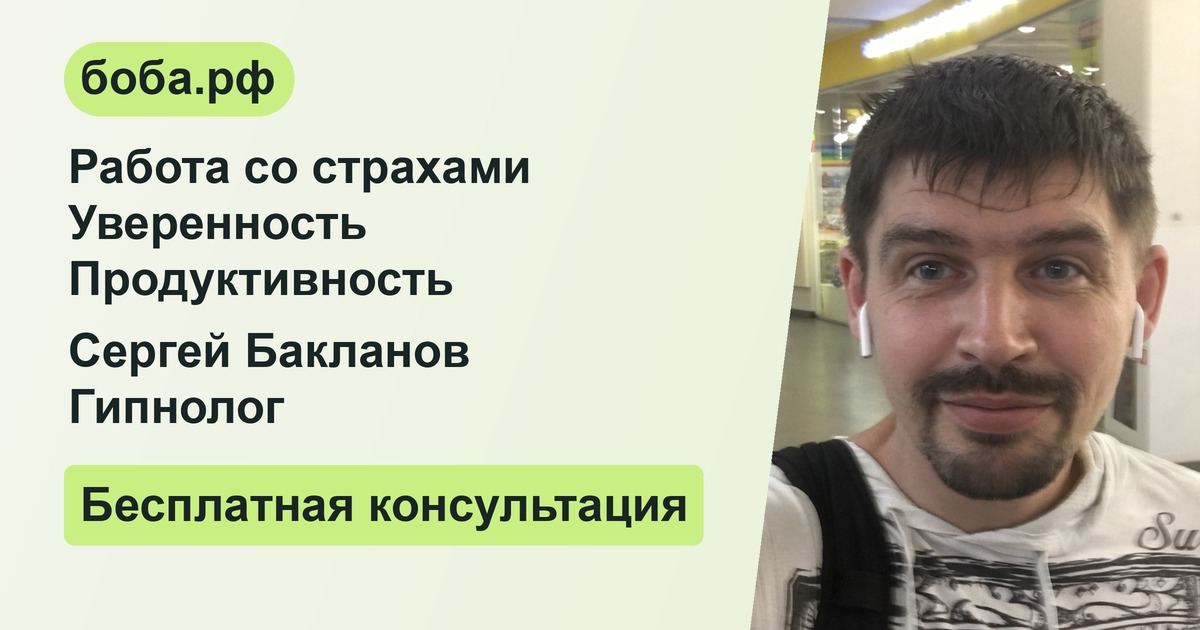
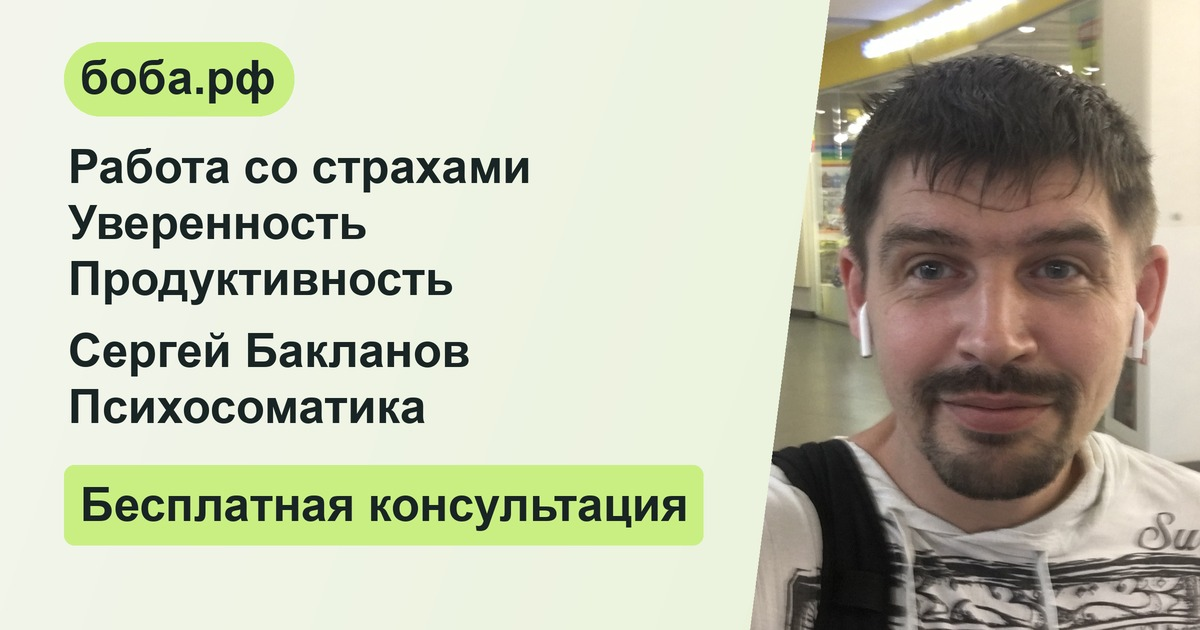
++ боба

Changed region(s): [[0.0617, 0.6032, 0.37, 0.6937]]

diff --git a/public/boba/site.css b/public/boba/site.css
@@ -99,3 +99,8 @@
     .service-card p{font-size:15px;line-height:1.6}
     .card-link{gap:8px}
 }
+
+/* Slow, subtle beige-to-yellow waves behind the page content */
+body{background-color:#f7f5ed;background-image:radial-gradient(ellipse 68% 54% at 12% 18%,rgba(245,218,150,.26),transparent 74%),radial-gradient(ellipse 64% 58% at 88% 82%,rgba(240,211,133,.23),transparent 72%),linear-gradient(118deg,#f5f4ee 0%,#fbf5e5 34%,#f7efcf 65%,#f8f5eb 100%);background-repeat:no-repeat;background-size:170% 170%,160% 160%,220% 220%;background-attachment:fixed;animation:boba-background-waves 38s ease-in-out infinite alternate}
+@keyframes boba-background-waves{0%{background-position:0% 0%,100% 100%,0% 50%}100%{background-position:100% 100%,0% 0%,100% 50%}}
+@media(prefers-reduced-motion:reduce){body{animation:none;background-position:50% 50%,50% 50%,50% 50%}}

diff --git a/resources/views/boba/index.blade.php b/resources/views/boba/index.blade.php
@@ -4,25 +4,25 @@
     <meta charset="utf-8">
     <meta name="viewport" content="width=device-width, initial-scale=1">
     <meta name="csrf-token" content="{{ csrf_token() }}">
-    <title>боба.рф — гипнолог Сергей Бакланов, Тюмень и онлайн</title>
-    <meta name="description" content="Страх общения, выступлений или конкретных ситуаций, неуверенность и привычки, мешающие продуктивности? Обсудите с гипнологом Сергеем Баклановым, подходит ли вам такой формат. Первая консультация бесплатная, без обязательств; стоимость дальнейшей работы обсуждается заранее.">
+    <title>боба.рф — психосоматика Сергей Бакланов, Тюмень и онлайн</title>
+    <meta name="description" content="Страх общения, выступлений или конкретных ситуаций, неуверенность и привычки, мешающие продуктивности? Обсудите с психосоматиком Сергеем Баклановым, подходит ли вам такой формат. Первая консультация бесплатная, без обязательств; стоимость дальнейшей работы обсуждается заранее.">
     <link rel="canonical" href="https://xn--80aba5c.xn--p1ai/">
     <meta property="og:type" content="website">
     <meta property="og:locale" content="ru_RU">
     <meta property="og:site_name" content="боба.рф">
-    <meta property="og:title" content="боба.рф — гипнолог Сергей Бакланов">
+    <meta property="og:title" content="боба.рф — психосоматика Сергей Бакланов">
     <meta property="og:description" content="Работа со страхами и привычными реакциями, развитие уверенности и продуктивности. Бесплатно обсудим ваш запрос; формат и стоимость дальнейшей работы — заранее, без обязательств.">
     <meta property="og:url" content="https://xn--80aba5c.xn--p1ai/">
-    <meta property="og:image" content="https://xn--80aba5c.xn--p1ai/boba/og-preview.jpg?v=6">
-    <meta property="og:image:secure_url" content="https://xn--80aba5c.xn--p1ai/boba/og-preview.jpg?v=6">
+    <meta property="og:image" content="https://xn--80aba5c.xn--p1ai/boba/og-preview.jpg?v=7">
+    <meta property="og:image:secure_url" content="https://xn--80aba5c.xn--p1ai/boba/og-preview.jpg?v=7">
     <meta property="og:image:type" content="image/jpeg">
     <meta property="og:image:width" content="1200">
     <meta property="og:image:height" content="630">
-    <meta property="og:image:alt" content="Гипнолог Сергей Бакланов и приглашение на бесплатную консультацию">
+    <meta property="og:image:alt" content="Сергей Бакланов, психосоматика и приглашение на бесплатную консультацию">
     <meta name="twitter:card" content="summary_large_image">
-    <meta name="twitter:title" content="боба.рф — гипнолог Сергей Бакланов">
+    <meta name="twitter:title" content="боба.рф — психосоматика Сергей Бакланов">
     <meta name="twitter:description" content="Работа со страхами и привычными реакциями, развитие уверенности и продуктивности. Бесплатно обсудим ваш запрос; формат и стоимость дальнейшей работы — заранее, без обязательств.">
-    <meta name="twitter:image" content="https://xn--80aba5c.xn--p1ai/boba/og-preview.jpg?v=6">
+    <meta name="twitter:image" content="https://xn--80aba5c.xn--p1ai/boba/og-preview.jpg?v=7">
     <meta name="theme-color" content="#111a1a">
     <link rel="stylesheet" href="/boba/site.css">
 {{--    <link rel="stylesheet" href="/css/output.css?v=1" />--}}
@@ -30,8 +30,8 @@
 </head>
 <body>
 <header class="topbar wrap">
-    <a class="brand" href="#top" aria-label="боба.рф — гипнолог Сергей Бакланов"><span class="brand-oval">боба.рф</span><span
-            class="brand-copy"><strong>Сергей Бакланов</strong><small>гипнолог</small></span></a>
+    <a class="brand" href="#top" aria-label="боба.рф — психосоматика Сергей Бакланов"><span class="brand-oval">боба.рф</span><span
+            <span class="brand-copy"><strong>Сергей Бакланов</strong><small>психосоматика</small></span></a>
     <nav aria-label="Основная навигация"><a href="#services">Направления</a><a href="#approach">Как проходит
             работа</a></nav>
     <button class="button button-small" type="button" data-consult="Бесплатная консультация">Записаться <span>↗</span>
@@ -50,51 +50,73 @@
              data-promo-carousel>
         <div class="promo-viewport">
             <article class="promo-slide is-active" data-promo-slide aria-hidden="false">
-                <div class="promo-copy"><p class="promo-eyebrow">НАПРАВЛЕНИЕ · 01 / 07</p>
-                    <h2>Страхи и фобии</h2>
-                    <div class="promo-details"><p>Общение, выступления и ситуации, которые вызывают сильное напряжение.</p>
+                <div class="promo-copy">
+
+                    <div class="promo-details">
+                        <h2>Страхи и&nbsp;фобии</h2>
+                        <br/>
+                        <p>Общение, выступления и&nbsp;ситуации, которые вызывают сильное напряжение.</p>
+                        <br/>
                         <button class="button promo-cta" type="button" data-consult="Страхи и фобии">Записаться <span>↗</span></button></div>
                 </div><div class="promo-photo" style="--promo-photo:url('/boba/services/fears.webp')"><img class="promo-image" src="/boba/services/fears.webp" alt="" fetchpriority="high"></div>
             </article>
             <article class="promo-slide" data-promo-slide aria-hidden="true" inert>
-                <div class="promo-copy"><p class="promo-eyebrow">НАПРАВЛЕНИЕ · 02 / 07</p>
-                    <h2>Тревога и стресс</h2>
-                    <div class="promo-details"><p>Беспокойство, напряжение и трудности с расслаблением.</p>
+                <div class="promo-copy">
+
+                    <div class="promo-details">
+                        <h2>Тревога и&nbsp;стресс</h2>
+                        <br/>
+                        <p>Беспокойство, напряжение и&nbsp;трудности с&nbsp;расслаблением.</p>
+                        <br/>
                         <button class="button promo-cta" type="button" data-consult="Тревога и стресс">Записаться <span>↗</span></button></div>
                 </div><div class="promo-photo" style="--promo-photo:url('/boba/services/stress.webp')"><img class="promo-image" src="/boba/services/stress.webp" alt="" loading="lazy"></div>
             </article>
             <article class="promo-slide" data-promo-slide aria-hidden="true" inert>
-                <div class="promo-copy"><p class="promo-eyebrow">НАПРАВЛЕНИЕ · 03 / 07</p>
-                    <h2>Эмоции и напряжение</h2>
-                    <div class="promo-details"><p>Скованность и чувства, которым трудно найти выход.</p>
+                <div class="promo-copy">
+
+                    <div class="promo-details"> <h2>Эмоции и&nbsp;напряжение</h2>
+                        <br/>
+
+                        <p>Скованность и&nbsp;чувства, которым трудно найти выход.</p>   <br/>
                         <button class="button promo-cta" type="button" data-consult="Эмоции и напряжение">Записаться <span>↗</span></button></div>
                 </div><div class="promo-photo" style="--promo-photo:url('/boba/services/emotions.webp')"><img class="promo-image" src="/boba/services/emotions.webp" alt="" loading="lazy"></div>
             </article>
             <article class="promo-slide" data-promo-slide aria-hidden="true" inert>
-                <div class="promo-copy"><p class="promo-eyebrow">НАПРАВЛЕНИЕ · 04 / 07</p>
-                    <h2>Уверенность и самооценка</h2>
-                    <div class="promo-details"><p>Неуверенность, самокритика и повторяющиеся сценарии.</p>
+                <div class="promo-copy">
+{{--                    <p class="promo-eyebrow">НАПРАВЛЕНИЕ · 04 / 07</p>--}}
+
+                    <div class="promo-details">
+                        <h2>Уверенность и&nbsp;самооценка</h2>  <br/>
+                        <p>Неуверенность, самокритика и&nbsp;повторяющиеся сценарии.</p>  <br/>
                         <button class="button promo-cta" type="button" data-consult="Самооценка и личные стратегии">Записаться <span>↗</span></button></div>
                 </div><div class="promo-photo" style="--promo-photo:url('/boba/services/confidence.webp')"><img class="promo-image" src="/boba/services/confidence.webp" alt="" loading="lazy"></div>
             </article>
             <article class="promo-slide" data-promo-slide aria-hidden="true" inert>
-                <div class="promo-copy"><p class="promo-eyebrow">НАПРАВЛЕНИЕ · 05 / 07</p>
-                    <h2>Потери и незавершённые истории</h2>
-                    <div class="promo-details"><p>Расставания, обиды и воспоминания, от которых сложно переключиться.</p>
+                <div class="promo-copy">
+{{--                    <p class="promo-eyebrow">НАПРАВЛЕНИЕ · 05 / 07</p>--}}
+
+                    <div class="promo-details">
+                        <h2>Потери и&nbsp;незавершённые истории</h2>  <br/>
+                        <p>Расставания, обиды и&nbsp;воспоминания, от&nbsp;которых сложно переключиться.</p>  <br/>
                         <button class="button promo-cta" type="button" data-consult="Потери и незавершённые истории">Записаться <span>↗</span></button></div>
                 </div><div class="promo-photo" style="--promo-photo:url('/boba/services/loss.webp')"><img class="promo-image" src="/boba/services/loss.webp" alt="" loading="lazy"></div>
             </article>
             <article class="promo-slide" data-promo-slide aria-hidden="true" inert>
-                <div class="promo-copy"><p class="promo-eyebrow">НАПРАВЛЕНИЕ · 06 / 07</p>
-                    <h2>Навязчивые мысли и действия</h2>
-                    <div class="promo-details"><p>Повторяющиеся мысли, действия и трудности речи.</p>
+                <div class="promo-copy">
+{{--                    <p class="promo-eyebrow">НАПРАВЛЕНИЕ · 06 / 07</p>--}}
+
+                    <div class="promo-details">
+                        <h2>Навязчивые мысли и&nbsp;действия</h2>  <br/>
+                        <p>Повторяющиеся мысли, действия и&nbsp;трудности речи.</p>  <br/>
                         <button class="button promo-cta" type="button" data-consult="Навязчивые мысли и действия">Записаться <span>↗</span></button></div>
                 </div><div class="promo-photo" style="--promo-photo:url('/boba/services/thoughts.webp')"><img class="promo-image" src="/boba/services/thoughts.webp" alt="" loading="lazy"></div>
             </article>
             <article class="promo-slide" data-promo-slide aria-hidden="true" inert>
-                <div class="promo-copy"><p class="promo-eyebrow">НАПРАВЛЕНИЕ · 07 / 07</p>
-                    <h2>Личный и бизнес-коучинг</h2>
-                    <div class="promo-details"><p>Цели, решения, уверенность и продуктивные привычки.</p>
+                <div class="promo-copy">
+
+                    <div class="promo-details">
+                        <h2>Личный и&nbsp;бизнес-коучинг</h2>  <br/>
+                        <p>Цели, решения, уверенность и&nbsp;продуктивные привычки.</p>  <br/>
                         <button class="button promo-cta" type="button" data-consult="Личный и бизнес-коучинг">Записаться <span>↗</span></button></div>
                 </div><div class="promo-photo" style="--promo-photo:url('/boba/services/productivity.webp')"><img class="promo-image" src="/boba/services/productivity.webp" alt="" loading="lazy"></div>
             </article>
@@ -120,7 +142,7 @@
             <p class="eyebrow"><span class="eyebrow-line"></span> ИНДИВИДУАЛЬНАЯ РАБОТА · ОНЛАЙН И ОЧНО</p>
             <h1>Меняться<br>можно <em>бережно.</em></h1>
             <p class="hero-lead">Если страх перед общением, выступлением или конкретной ситуацией ограничивает вас,
-                обсудим, может ли гипнологическая работа помочь изменить привычную реакцию. Также можно работать над
+                обсудим, может ли психосоматическая работа помочь изменить привычную реакцию. Также можно работать над
                 уверенностью и более продуктивными способами действовать.</p>
             <div class="hero-actions">
                 <button class="button" type="button" data-consult="Бесплатная консультация">Бесплатная консультация

diff --git a/resources/views/components/boba/footer.blade.php b/resources/views/components/boba/footer.blade.php
@@ -1,9 +1,9 @@
 <footer class="footer">
     <div class="wrap footer-inner">
         <section class="footer-col footer-left" aria-label="Контакты">
-            <a class="brand footer-brand" href="#top" aria-label="boba.рф — гипнолог Сергей Бакланов">
+            <a class="brand footer-brand" href="#top" aria-label="boba.рф — психосоматика Сергей Бакланов">
                 <span class="brand-oval">boba.рф</span>
-                <span class="brand-copy"><strong>Сергей Бакланов</strong><small>гипнолог</small></span>
+                <span class="brand-copy"><strong>Сергей Бакланов</strong><small>психосоматика</small></span>
             </a>
             <a class="footer-email" href="mailto:boba@php-cat.ru">boba@php-cat.ru</a>
         </section>

diff --git a/app/Http/Controllers/Boba/ConsultationController.php b/app/Http/Controllers/Boba/ConsultationController.php
@@ -55,7 +55,7 @@ class ConsultationController extends Controller
         try {
             $notifier->send($message, timeout: 8);
         } catch (\Throwable $exception) {
-            Log::warning('Не удалось доставить заявку гипнолога во ВКонтакте.', [
+            Log::warning('Не удалось доставить заявку психосоматики во ВКонтакте.', [
                 'exception' => $exception::class,
             ]);
 
